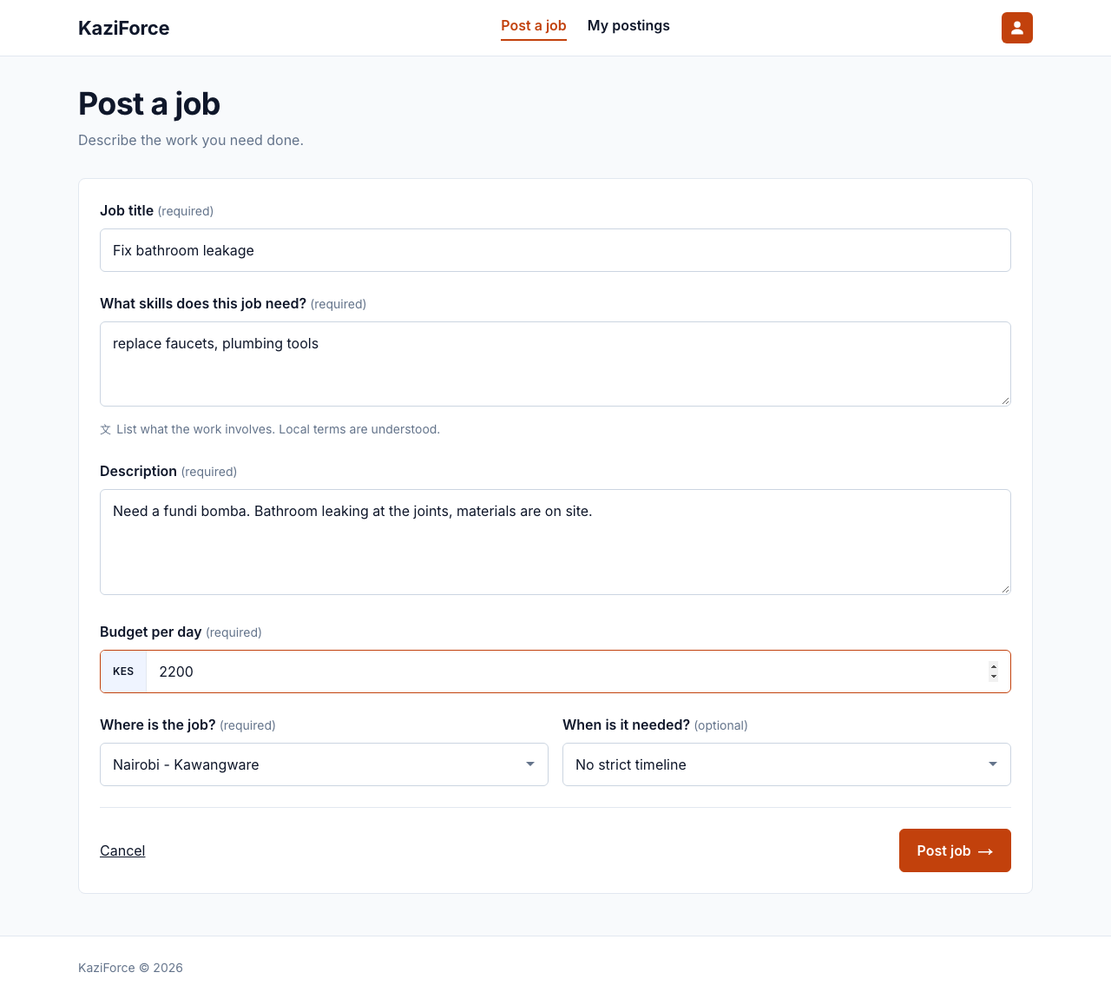
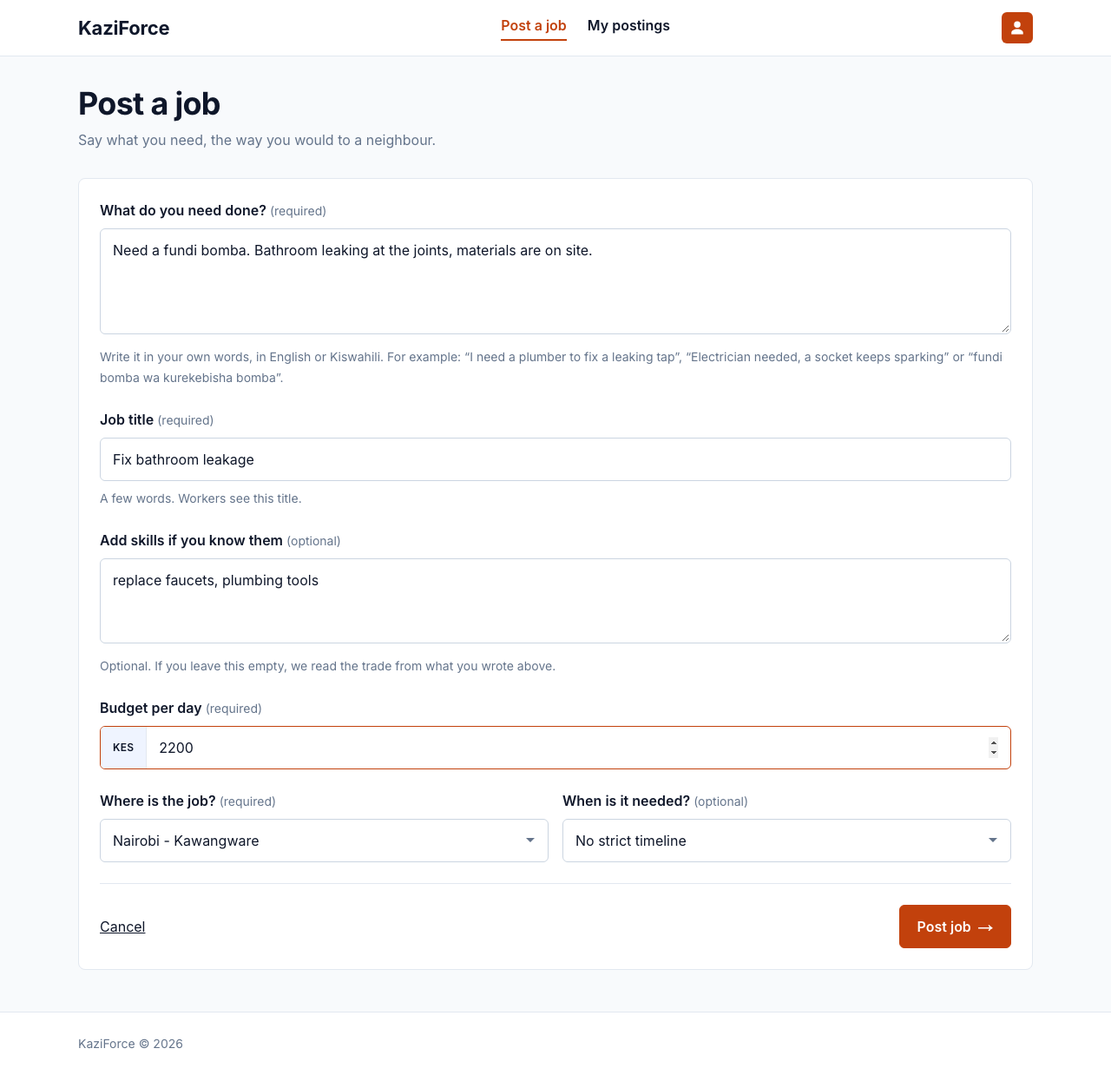
docs: amended requirements, limitations 41 to 43, usability finding U-7, test-record rows U-7, M-2 and M-3
FR-02, FR-14, FR-15, FR-16, DR-02, DR-07 and NFR-06 reworded to the short versions, with
their code and test references kept. FR-02 and DR-02: skills and availability are optional
for postings made through the web interface. limitations: a posting with no skills is scored
without a skill criterion (measured), skills in a client's own words match only identical
text, and semantic scores can shift by about 1e-7 when the pool changes. Evidence screens
refreshed for the landing page and the client post and result screens.

diff --git a/docs/traceability.md b/docs/traceability.md
@@ -12,11 +12,11 @@ Paths are relative to the repository root. Python test counts are from the run
 recorded in `docs/test-results.xml`: **520 tests, all passing** (2026-11-12, commit
 `3dd58f0`, **with a database available**, so the 123 database-backed tests ran). Without a
 database, as in CI, the same suite gives 397 passed and 123 skipped. The interface adds
-**151 component tests** (vitest, all passing, 2026-11-12, after the usability fixes in `4e9f635`). The end-to-end suite defines
-**30 tests per engine** (Chromium and WebKit), one of which is the NFR-01 browser timing. Its last
+**161 component tests** (vitest, all passing, 2026-11-12, after the usability fixes in `4e9f635`). The end-to-end suite defines
+**33 tests per engine** (Chromium and WebKit), one of which is the NFR-01 browser timing. Its last
 recorded run (`docs/evidence/e2e_browsers.txt`, 2026-11-12, commit `b44c924`, an isolated scratch stack)
 **passed all 48** (24 per engine, 0 failed, 0 flaky); the run before it (2026-10-29) predates the landing page and
-the contact feature, when the suite held 10 per engine. Tests added since (to 30 per engine, counted in the run of 2026-11-13: 14 core-workflow, 9 landing, 5 worker-contact, 1 timing, 1 screenshots) passed in both engines, 60 of 60, on an isolated stack; that run is not in the transcript above, which is the 48 of `b44c924`. The earlier counts of 24 and 26 per engine do not reconcile with this count by file, and 30 is the one to cite. System tests T-01 to T-08 are in
+the contact feature, when the suite held 10 per engine. Tests added since (to 33 per engine, counted in the run of 2026-11-15: 17 core-workflow, 9 landing, 5 worker-contact, 1 timing, 1 screenshots) passed in both engines, 66 of 66, on an isolated stack; that run is not in the transcript above, which is the 48 of `b44c924`. The earlier counts of 24 and 26 per engine do not reconcile with this count by file, and 33 is the one to cite. System tests T-01 to T-08 are in
 `docs/test-record.md`.
 
 ## Functional requirements
@@ -24,7 +24,7 @@ the contact feature, when the suite held 10 per engine. Tests added since (to 30
 | ID | Requirement | Status | Implemented in | Tests | Evidence |
 |---|---|---|---|---|---|
 | FR-01 | A worker submits a profile through the web interface: skills, biography, location, availability, rate expectation, **and views and edits it afterwards** *(amended; drafted 2026-11-12 for Chapter 4)* | **Done** | `apps/web/app/worker/profile/page.tsx` (all five fields; a worker with a profile reads it and chooses *Edit profile*); `POST /workers`, `GET /workers/me` and **`PUT /workers/me`** in `apps/api/.../app.py: parse_worker`, `service.py: create_worker`, `update_worker`, `data/store.py: save_worker`, `update_worker`. An edit replaces the profile and keeps its `worker_id`, so the next request for matches uses the edited profile | `tests/test_api.py` validation set, `tests/test_api_db.py: test_a_stored_worker_can_then_be_recommended_for`, `tests/test_api_accounts.py: test_a_worker_edits_their_profile_in_place`, `test_an_edit_clears_a_field_the_body_leaves_empty`, `test_editing_a_profile_that_does_not_exist_is_a_404`, `apps/web/__tests__/WorkerProfilePage.test.tsx`, `apps/web/e2e/core-workflow.spec.ts` | `docs/evidence/screens/*/03-create_worker_profile_view.png`; commits `2e6f113` (API), `8ea27b9` (view and edit screen) |
-| FR-02 | A client submits a job posting through the web interface: required skills, ~~category~~, budget, location | **Done (requirement amended)** | `apps/web/app/client/post/page.tsx` and `POST /jobs` implement required skills, budget, location (and a description, per DR-02). `category` is deliberately absent: matching never reads it | `tests/test_api.py: test_category_is_rejected_because_matching_never_uses_it`, `tests/test_api_db.py`, e2e | `docs/evidence/screens/*/07-job_posting_creation.png`, `08-job_posted_confirmation.png`, `09-client_postings_list.png`. **Decided 2026-10-29: the requirement is amended in Chapter 4 to drop `category`.** Matching never reads it, and in the evaluation data the category *is* the occupational area, so collecting it would put the relevance label into the profile data. The API rejects `category` with a 400 so the decision cannot be undone by accident |
+| FR-02 | The system shall allow a client to submit a job posting with a title, a description of the work, a budget and a location, and optionally the availability and required skills. | **Done (requirement amended)** | `apps/web/app/client/post/page.tsx` and `POST /jobs` implement a title, a description (asked first, as "What do you need done?"), a budget, a location, and an optional availability and optional skills (`parse_job` has always accepted a posting with none; the form no longer demands them). `category` is deliberately absent: matching never reads it | `tests/test_api.py: test_category_is_rejected_because_matching_never_uses_it`, `test_a_job_may_be_posted_with_no_skills`, `tests/test_api_db.py: test_a_posting_with_no_skills_is_stored_and_its_trade_is_read_from_the_description`, `test_a_posting_with_no_skills_can_be_ranked_without_error_and_has_no_skill_criterion`, `__tests__/PostJobPage.test.tsx`, e2e (`a client who lists no skills posts a job and is told how it was read`) | `docs/evidence/screens/*/07-job_posting_creation.png`, `08-job_posted_confirmation.png`, `09-client_postings_list.png`. **Decided 2026-10-29: the requirement is amended in Chapter 4 to drop `category`.** Matching never reads it, and in the evaluation data the category *is* the occupational area, so collecting it would put the relevance label into the profile data. The API rejects `category` with a 400 so the decision cannot be undone by accident. **Amended again 2026-11-15 (usability finding U-7):** skills became optional, because clients mostly know only that they need a plumber or an electrician; the title stays required. A posting with no skills is scored without a skill criterion (`docs/limitations.md`, items 41 and 42) |
 | FR-03 | Map informal trade terms in a worker or job profile to their formal ESCO occupation or skill, using the Kenya vocabulary extension | **Done** | `packages/knowledge-graph/src/kaziforce_kg/enrichment.py: ProfileEnricher.enrich`, over `graph.py: KnowledgeGraph.find_terms` → `occupation_of`. Applied to both sides: jobs are enriched in `pipeline.py: Recommender.__init__`, workers in `Recommender.enrich` | `tests/test_enrichment.py` (12), `tests/test_kg_withheld.py` (14) | `docs/evidence/enrichment_example.md`: 64/64 development known-alias profiles reach their true ESCO occupation, 0 wrong |
 | FR-04 | Enrich a profile by linking it to related entities in the knowledge graph: skills, occupations, vocabulary mappings | **Done** | `enrichment.py: ProfileEnricher._infer` adds the occupation's essential skills, each with the graph path that produced it (`SkillEvidence.graph_path`) | `tests/test_enrichment.py: test_every_inferred_skill_carries_its_full_graph_path`, `test_formal_profile_keeps_listed_skills_and_infers_the_rest` | `docs/evidence/enrichment_example.md`: *fundi wa umeme* → electrician → 21 essential skills |
 | FR-05 | Rule-based score on skill overlap, location, budget and availability, evaluating only criteria for which both sides supply the information | **Done** | `apps/api/.../matching/rule_based.py: RuleBasedScorer`; absent criteria are dropped and the remaining weights renormalised | `tests/test_rule_scorer.py` (32), including `test_renormalisation_drops_absent_criteria` | `docs/scoring-policy.md` §1, fixed before any score existed; `results/dev/20261017-132422_6698b8a/metrics.md` |
@@ -36,9 +36,9 @@ the contact feature, when the suite held 10 per engine. Tests added since (to 30
 | FR-11 | Persist submitted worker profiles, job postings, and **computed match scores** in the application database | **Done** | Profiles and postings: `data/store.py: PostgresProfileStore.save_worker`, `save_job`, through migrations `0001`–`0003`. Match scores: `service.py: RecommendationService._persist` calls `save_match_scores(..., replace=True)` after every `POST /recommend` for a stored worker. Replacing rather than appending keeps one current ranking per (worker, configuration), so the table records what the engine decided and not how often the screen was refreshed | `tests/test_store.py` (7), `tests/test_api_db.py: test_a_ranking_is_recorded_and_replaced_rather_than_accumulated`, `test_a_typed_in_profile_records_nothing` | `docs/demo.md`: ten `match_score` rows per worker after opening the matches screen. The write happens after the query timer stops and a failure is logged, not surfaced: the ranking is already computed and the worker should still get it |
 | FR-12 | A worker or a client creates an account identified by a phone number and a four-digit PIN, signs in, **and signs out; a worker creating an account also gives a first and last name and agrees to be shown to clients in their trade** *(amended; drafted 2026-11-12 for Chapter 4)* | **Done** | `auth.py` (`normalise_phone`, `PIN_LENGTH = 4`, `hash_pin`: PBKDF2-HMAC-SHA256, 600,000 iterations, per-account salt; lockout after 5 wrong PINs for 15 minutes; session tokens stored as a SHA-256 hash, 7-day expiry); `data/accounts.py: AccountStore.create`, `authenticate`, `start_session`, `session_account`, `end_session`; `app.py`: `POST /auth/accounts` (`parse_credentials`, `parse_signup_contact`: a worker must give both names and `contact_consent: true`; a client gives neither), `POST` and `DELETE /auth/sessions`, `GET /auth/session`; screens `app/create-account/page.tsx`, `app/sign-in/page.tsx`, sign-out in `components/AppShell.tsx` and `SessionProvider.tsx`; migrations `0003`–`0005` | `tests/test_auth.py` (10); `tests/test_api_accounts.py: test_creating_an_account_signs_you_in_and_says_what_you_own`, `test_one_number_written_three_ways_is_one_account`, `test_signing_in_needs_the_right_pin`, `test_an_unknown_number_and_a_wrong_pin_look_the_same`, `test_repeated_wrong_pins_lock_the_account`, `test_signing_out_ends_the_session`, `test_the_pin_never_comes_back_in_any_response`; `tests/test_api_contact.py: test_a_worker_signs_up_with_a_name_and_agreement`, `test_a_worker_must_agree_to_be_shown`, `test_a_client_gives_no_name_and_no_consent`; `tests/test_crypto.py`, `tests/test_contact_migration.py`; `apps/web/__tests__/CreateAccountPage.test.tsx`; e2e "signing in returns a worker to their matches", "the wrong PIN is refused, and the form says so", "no PIN is left behind in the page after signing up", "a signed-out visitor is sent to sign in" | `docs/evidence/screens/*/01-sign_in.png`, `02-create_account.png`; `docs/limitations.md` items 26 (what a four-digit PIN does not protect against), 28 and 38; `docs/privacy-and-keys.md`; see also NFR-06. Consent is a condition of creating a worker account, and is withdrawable (FR-16) |
 | FR-13 | A worker profile and any job postings are associated with the account that created them, so a client sees only their own postings, **and the client is given a list of the postings they have submitted** *(amended; drafted 2026-11-12 for Chapter 4)* | **Done** | `fk_account_id` on `worker_profile` (unique, so one profile per worker account) and on `job_posting` (migration `0003`); `data/accounts.py: claim_worker_profile`, `claim_job_posting`, `posting_ids`, `owns_posting`, `worker_profile_id`; `app.py`: `POST /workers` and `POST /jobs` claim for the signed-in account, `GET /jobs` lists the signed-in client's postings, `GET /jobs/<id>` answers 404 for another client's posting; screen `apps/web/app/client/postings/page.tsx` | `tests/test_api_accounts.py: test_a_client_posts_jobs_and_sees_only_their_own`, `test_a_second_profile_is_refused`, `test_a_client_cannot_use_worker_endpoints`, `test_a_worker_cannot_post_or_list_jobs`, `test_signed_out_visitors_are_asked_to_sign_in`; e2e "a client's postings are listed, and only their own" | `docs/evidence/screens/*/09-client_postings_list.png`; `docs/limitations.md` item 27 (a client has an account, not a profile) |
-| FR-14 | After a job posting is submitted, the client is shown the occupation the posting was mapped to and the skills it was understood to require | **Done** | `service.py: job_interpretation` (`occupations`, `stated_skills` each `listed` or `text`, `terms`, `unmapped`; the posting's stated requirements only, `docs/scoring-policy.md` §1), returned by `POST /jobs` and `GET /jobs/<id>`; `posting_summary` for the postings list; screen `apps/web/app/client/postings/[postingId]/page.tsx` ("We matched this to the trade", the skill chips, a plain sentence on how the posting was read, and any term it did not recognise kept as written) | `tests/test_api.py: test_job_interpretation_shows_stated_skills_only`, `test_unknown_or_malformed_posting_is_404`; `tests/test_api_accounts.py: test_a_client_posts_jobs_and_sees_only_their_own`; e2e "a client signs up, posts a job, and sees how it was understood" | `docs/evidence/screens/*/07-job_posting_creation.png`, `08-job_posted_confirmation.png`. FR-14 asks for the occupation and the skills only; the trade list on the same screen is FR-15 |
-| FR-15 | A client may view the workers in a posting's trade, as an unranked sample with no match score and no explanation, and the name, trade, skills, biography, location, availability, rate and phone number of a worker who has given a name and consented to be shown *(drafted 2026-11-12 for Chapter 4)* | **Done** | `service.py: _worker_pool`, `_worker_sample` (`TRADE_SAMPLE_SIZE = 5`); `GET /jobs/<id>` (`worker_pool`); `GET /workers/<public_id>` (clients only, `require("client")`) → `client_view_of_worker`; `data/accounts.py: consented_cards`, `consented_contact`; screens `client/postings/[postingId]`, `client/workers/[workerId]` | `tests/test_api_contact.py`; `tests/test_api_db.py`; e2e `worker-contact.spec.ts` | `docs/privacy-and-keys.md`; `docs/limitations.md` item 36; commits `29e1194`, `9d9565e`, `2f3dd75` |
-| FR-16 | A worker may withdraw, and later restore, their agreement to be shown to clients; a worker who has withdrawn is not shown by name and their contact details are not released *(drafted 2026-11-12 for Chapter 4; optional, may be folded into FR-12)* | **Done** | `account.contact_consent`, `consent_changed_at` (migration 0004); `PUT /workers/me` with `contact_consent`; `consented_contact` returns nothing without consent | `tests/test_api_contact.py`; e2e `worker-contact.spec.ts` (withdrawal) | Commit `9b457da`; `docs/limitations.md` (consent, withdrawal; a number already seen cannot be recalled). Consent is required to create a worker account (`app.py`), recorded as a limitation |
+| FR-14 | The system shall show a client, after a posting is submitted, the occupation it was mapped to (if found) and any skills the client listed. | **Done** | `service.py: job_interpretation` (`occupations`, `stated_skills` each `listed` or `text`, `terms`, `unmapped`; the posting's stated requirements only, `docs/scoring-policy.md` §1), returned by `POST /jobs` and `GET /jobs/<id>`; `posting_summary` for the postings list; screen `apps/web/app/client/postings/[postingId]/page.tsx` ("We matched this to the trade", the skill chips, a plain sentence on how the posting was read, and any term it did not recognise kept as written; with no skills listed, a sentence saying the trade was read from the description and skills could not be compared) | `__tests__/PostingResultPage.test.tsx` (the wording with and without skills), `tests/test_api.py: test_job_interpretation_shows_stated_skills_only`, `test_unknown_or_malformed_posting_is_404`; `tests/test_api_accounts.py: test_a_client_posts_jobs_and_sees_only_their_own`; e2e "a client signs up, posts a job, and sees how it was understood" | `docs/evidence/screens/*/07-job_posting_creation.png`, `08-job_posted_confirmation.png`. FR-14 asks for the occupation and the skills only; the trade list on the same screen is FR-15 |
+| FR-15 | After posting a job, a client can view the workers in the posting's trade, as an unranked sample with no score or explanation. For workers who have consented, the client can also view their name, phone number and profile. | **Done** | `service.py: _worker_pool`, `_worker_sample` (`TRADE_SAMPLE_SIZE = 5`); `GET /jobs/<id>` (`worker_pool`); `GET /workers/<public_id>` (clients only, `require("client")`) → `client_view_of_worker`; `data/accounts.py: consented_cards`, `consented_contact`; screens `client/postings/[postingId]`, `client/workers/[workerId]` | `tests/test_api_contact.py`; `tests/test_api_db.py`; e2e `worker-contact.spec.ts` | `docs/privacy-and-keys.md`; `docs/limitations.md` item 36; commits `29e1194`, `9d9565e`, `2f3dd75` |
+| FR-16 | The system shall allow a worker to withdraw or restore their agreement to be shown to clients. While it is withdrawn, the worker's name and contact details are not shown. | **Done** | `account.contact_consent`, `consent_changed_at` (migration 0004); `PUT /workers/me` with `contact_consent`; `consented_contact` returns nothing without consent | `tests/test_api_contact.py`; e2e `worker-contact.spec.ts` (withdrawal) | Commit `9b457da`; `docs/limitations.md` (consent, withdrawal; a number already seen cannot be recalled). Consent is required to create a worker account (`app.py`), recorded as a limitation |
 
 ## Non-functional requirements
 
@@ -47,21 +47,21 @@ the contact feature, when the suite held 10 per engine. Tests added since (to 30
 | NFR-01 | Under a single-query workload, return top-K matches to the frontend within 5 seconds, measured end to end from request submission to result display | **Done** | `pipeline.py`; job embeddings are computed once at startup (`service.py`), so a query is one short encoding plus the ranking | Engine time per query by `evaluation/evaluator.py`; **end-to-end time in a real browser** by `apps/web/e2e/performance.spec.ts`, 10 samples per engine after 3 discarded warm-ups, asserting the slowest single sample is inside the budget | **`docs/evidence/nfr01_browser_timing.md`**: end-to-end median 471 ms (Chromium) and 598 ms (WebKit), slowest single sample 697 ms, against a 5,000 ms budget. Engine time on the same requests: median 14.8 ms and 14.1 ms, so the browser path is roughly thirty times the engine figure — which is why both are reported. Engine time across the evaluation: `results/dev/.../metrics.md`, median 3–35 ms, p95 ≤ 51 ms. Startup (about 35 s, once per process) is excluded and reported separately |
 | NFR-02 | An interpretable explanation for at least 85% of the top-K recommendations across the evaluation dataset | **Not met (development split; test-split figure pending)** | `evaluation/evaluator.py` counts coverage over each query's top-10, to the strict rule fixed in `docs/scoring-policy.md` §7 **before** the generator was written | `tests/test_evaluation.py: test_computing_coverage_changes_no_ranking_metric`, `test_coverage_is_counted_over_the_whole_top_k_not_only_what_would_be_displayed`, `tests/test_explanation.py` | `results/dev/20261026-232037_46116e0/metrics.md`: `full` reaches **79.2%** against a target of 85%. The shortfall is **not** spread evenly. Of the 2,160 top-10 results, 449 are uncovered: **240 are the held-out-alias variant**, all 24 of its queries at 0.0%. The other 209 are spread over formal (89.2%), known_alias (90.3%) and minimal (87.8%). Excluding the held-out queries, coverage would be 1 − 209/1,920 = **89.1%**, above the target. So the held-out variant is what takes the figure below 85%, but it is not the whole shortfall. A worker using a withheld alias reaches no occupation, so no skill is inferred and none is shared, so there is nothing checkable to say. The knowledge graph's contribution: 12.5% → 78.2% (rule), 15.9% → 79.2% (hybrid) |
 | NFR-03 | Separable components for knowledge graph enrichment, rule-based scoring, semantic similarity **and explanation generation**, with clear interfaces | **Done** | All four are separable behind abstract interfaces: `kaziforce_kg/enrichment.py: Enricher`, `matching/base.py: Scorer` (rule, semantic and hybrid all realise it), `explainability/base.py: Explainer`, `data/store.py: ProfileStore`. A configuration is an (enricher, scorer) pair in `pipeline.py: CONFIGURATIONS`, with no conditional logic in the scorers; the explainer is passed to the evaluator separately and is optional | `tests/test_enrichment.py: test_both_enrichers_realise_the_same_interface`, `tests/test_pipeline.py: test_every_configuration_is_an_enricher_scorer_pair`, `test_kg_ablation_pairs_differ_only_in_the_enricher`, `tests/test_explanation.py: test_the_generator_works_without_a_graph`, `tests/test_evaluation.py: test_computing_coverage_changes_no_ranking_metric` | The knowledge-graph ablation is only possible because the parts are swappable; the evaluator runs identically with and without an explainer |
-| NFR-04 | The web interface provides clear input and output flows, usable without technical knowledge | **Done (by design; not fully user-tested)** | `apps/web`: plain-language labels and hints, worked examples in Kiswahili, errors shown against the field they concern, absent values written as "Not assessed" rather than 0, and skill provenance in words ("listed by you", "inferred via *fundi wa umeme*"). No identifier, URI or score internals are shown. Four findings from the sessions are fixed: in `4e9f635`, no way back from sign-in and create-account to the landing page, and a button stuck on "Signing in…" / "Saving…" with nothing submitted; in `660a184`, a developer-worded message with no recovery when the connection drops (now plain wording and a "Try again" button; the cause was the tunnel dropping, outside the app), and a "+N more" on a match card that looked tappable (now a link to the explanation) | 151 component tests (13 files, 2026-11-13), 16 of them added with the four fixes; 14 end-to-end tests of the two journeys in each of two engines, 5 of them for the four fixes | **First usability sessions, `docs/usability-record.md`:** 3 participant sessions (P1 and P3 workers, P2 a client; laptop, Safari and Dia) and 1 check by the author, which is not a participant session. **6 findings; 4 fixed (U-1 to U-4); 2 open (U-5, U-6)**, both deliberately not changed: a score that does not follow pay (scoring) and a trade the vocabulary lacks (enrichment). To "was there anything you didn't understand?", P1 and P2 answered "No"; P3's answer was about the scoring. **The sessions were unmoderated** (participants worked alone and screen-recorded themselves), and no step times or hesitations have yet been taken from the recordings, so **no timing or task-completion claim is made**. Three sessions are a first look, not a usability study. `docs/evidence/screens/` |
+| NFR-04 | The web interface provides clear input and output flows, usable without technical knowledge | **Done (by design; not fully user-tested)** | `apps/web`: plain-language labels and hints, worked examples in Kiswahili, errors shown against the field they concern, absent values written as "Not assessed" rather than 0, and skill provenance in words ("listed by you", "inferred via *fundi wa umeme*"). No identifier, URI or score internals are shown. Four findings from the sessions are fixed: in `4e9f635`, no way back from sign-in and create-account to the landing page, and a button stuck on "Signing in…" / "Saving…" with nothing submitted; in `660a184`, a developer-worded message with no recovery when the connection drops (now plain wording and a "Try again" button; the cause was the tunnel dropping, outside the app), and a "+N more" on a match card that looked tappable (now a link to the explanation) | 161 component tests (14 files, 2026-11-15), 26 of them added with the five fixes; 17 end-to-end tests of the journeys in each of two engines, 8 of them for the fixes | **First usability sessions, `docs/usability-record.md`:** 3 participant sessions (P1 and P3 workers, P2 a client; laptop, Safari and Dia) and 1 check by the author, which is not a participant session. **7 findings; 4 fixed (U-1 to U-4); 1 fixed and pending retest (U-7, `b313756`: skills are optional); 2 open (U-5, U-6)**, the open two deliberately not changed: a score that does not follow pay (scoring) and a trade the vocabulary lacks (enrichment). To "was there anything you didn't understand?", P1 and P2 answered "No"; P3's answer was about the scoring. **The sessions were unmoderated** (participants worked alone and screen-recorded themselves), and no step times or hesitations have yet been taken from the recordings, so **no timing or task-completion claim is made**. Three sessions are a first look, not a usability study. `docs/evidence/screens/` |
 | NFR-05 | Renders correctly on current versions of at least two major browsers (Safari and Google Chrome) | **Done** | `apps/web` | `apps/web/e2e/core-workflow.spec.ts`, run in Chromium and WebKit (`playwright.config.ts`) | `docs/evidence/e2e_browsers.txt`: 9 tests pass in each of the two engines, 18 in total, 2026-10-25; `docs/evidence/screens/{chromium,webkit}/` |
-| NFR-06 | Account and contact data protected: (a) phone numbers and worker names encrypted at rest under keys held outside the database and repository, the app refusing to start outside development without them; (b) contact details released only with current consent; (c) a client limited to 30 worker-profile views per 60 s; (d) an account locked for 15 minutes after 5 failed sign-ins; (e) sessions expire after 7 days *(drafted 2026-11-12 for Chapter 4)* | **Done, with limitations** | (a) `crypto.py` (`FieldCipher` AES-256-GCM, `FieldCrypto` HMAC-SHA256 lookup), migrations 0004–0005; (b) `accounts.consented_contact`; (c) `app.py` `CONTACT_VIEWS_PER_WINDOW, CONTACT_WINDOW_SECONDS = 30, 60`, `ratelimit.SlidingWindowLimiter` (429 + `Retry-After`); (d) `auth.py` `MAX_FAILED_ATTEMPTS = 5`, `LOCKOUT = 15 min` (423); (e) `auth.py` `SESSION_LIFETIME = 7 days`, HttpOnly SameSite=Lax cookie | `tests/test_crypto.py`; `tests/test_auth.py`; `tests/test_api_accounts.py`; `tests/test_api_contact.py` (incl. `test_nothing_personal_reaches_the_logs`); `tests/test_contact_migration.py` | `docs/privacy-and-keys.md`. Limitations: keys do not rotate (`docs/limitations.md` item 34), no TLS to the database or disk encryption on the development machine (item 35), four-digit PIN without a pepper (item 37), phone numbers not verified (item 38) |
+| NFR-06 | The system shall protect account and contact data: (a) phone numbers and names are encrypted at rest, with keys held outside the database and the repository; (b) a worker's contact details are released only with current consent; (c) a client may view at most 30 worker profiles per minute; (d) an account is locked for 15 minutes after 5 failed sign-ins; (e) PINs and session tokens are stored only as hashes, and a session expires after 7 days. | **Done, with limitations** | (a) `crypto.py` (`FieldCipher` AES-256-GCM, `FieldCrypto` HMAC-SHA256 lookup), migrations 0004–0005; (b) `accounts.consented_contact`; (c) `app.py` `CONTACT_VIEWS_PER_WINDOW, CONTACT_WINDOW_SECONDS = 30, 60`, `ratelimit.SlidingWindowLimiter` (429 + `Retry-After`); (d) `auth.py` `MAX_FAILED_ATTEMPTS = 5`, `LOCKOUT = 15 min` (423); (e) `auth.py` `SESSION_LIFETIME = 7 days`, HttpOnly SameSite=Lax cookie | `tests/test_crypto.py`; `tests/test_auth.py`; `tests/test_api_accounts.py`; `tests/test_api_contact.py` (incl. `test_nothing_personal_reaches_the_logs`); `tests/test_contact_migration.py` | `docs/privacy-and-keys.md`. Limitations: keys do not rotate (`docs/limitations.md` item 34), no TLS to the database or disk encryption on the development machine (item 35), four-digit PIN without a pepper (item 37), phone numbers not verified (item 38) |
 
 ## Data requirements
 
 | ID | Requirement | Status | Implemented in | Tests | Evidence |
 |---|---|---|---|---|---|
 | DR-01 | Worker profile data includes skills, biography, location, availability and rate expectation, from programmatically generated synthetic profiles | **Done** | `data/synthetic.py: make_base_workers`, `make_variants`; `data/models.py: WorkerProfile` carries exactly these fields | `tests/test_synthetic_dataset.py` (12), `tests/test_data_loader.py` (8) | `data/raw/synthetic/workers.csv` (528 rows), `manifest.json` |
-| DR-02 | Job posting data includes required skills, ~~category~~, budget, location and free-text description; synthetic postings plus Job Skill Set postings as unrelated candidates | **Done (requirement amended)** | `data/synthetic.py: make_jobs` and `make_distractors` produce 80 synthetic postings and 200 Job Skill Set postings in one pool. `category` is deliberately absent from `jobs.csv`, because the category is the occupational area and would carry the evaluation label into the profile data | `tests/test_synthetic_dataset.py: test_profile_files_have_no_label_or_occupation_columns`, `test_every_worker_has_relevant_jobs_and_distractors_never_relevant` | `data/raw/synthetic/jobs.csv` (280 rows), `README.md` "Job category" note. **Same amendment as FR-02**: the column exists in the schema and is never populated, and omitting it is what keeps the evaluation label out of the profile data |
+| DR-02 | Evaluation postings shall include a title, description, required skills, budget, location and availability. Postings submitted through the web interface may omit the required skills and the availability. | **Done (requirement amended)** | `data/synthetic.py: make_jobs` and `make_distractors` produce 80 synthetic postings and 200 Job Skill Set postings in one pool. `category` is deliberately absent from `jobs.csv`, because the category is the occupational area and would carry the evaluation label into the profile data | `tests/test_synthetic_dataset.py: test_profile_files_have_no_label_or_occupation_columns`, `test_every_worker_has_relevant_jobs_and_distractors_never_relevant` | `data/raw/synthetic/jobs.csv` (280 rows), `README.md` "Job category" note. **Same amendment as FR-02**: the column exists in the schema and is never populated, and omitting it is what keeps the evaluation label out of the profile data. **Postings submitted through the web interface may omit the required skills and the availability** (usability finding U-7); the evaluation's postings always carry them, so the evaluation is unaffected |
 | DR-03 | The knowledge graph stores the ESCO backbone and the Kenya vocabulary extension, each mapping recorded with the dictionary evidence and review decision supporting it | **Done** | Backbone: `data/kg/` → `kaziforce_kg/builder.py: KnowledgeGraphBuilder`. Extension: `data/vocabulary/aliases.csv`, where every row carries `dictionary_check`, `dictionary_source`, `entry_url`, `gloss_note`, `sense_ok`, `validated_by` and `decision_date`, plus `dictionary_evidence.csv` (252 rows) and the decision files | `tests/test_kg_graph.py` (16), `tests/test_vocabulary.py` (33) including the evidence-field integrity checks, `tests/test_kg_inputs.py` (7) | `docs/evidence/kg_stats.md`: 544 nodes, 901 edges; `docs/vocabulary-report.md` |
 | DR-04 | Missing or incomplete fields are handled without discarding the record; a criterion is evaluated only where both records supply the field, and the remaining criteria weighted accordingly | **Done** | `matching/rule_based.py: combine_present` renormalises over the criteria present; records are never discarded | `tests/test_rule_scorer.py: test_renormalisation_drops_absent_criteria`, `test_distractor_is_scored_on_skills_alone`, `test_minimal_worker_is_scored_on_skills_and_location` | `docs/scoring-policy.md` §1; the interface shows "Not assessed" in muted italics, never 0 (`apps/web/__tests__/Explanation.test.tsx`) |
 | DR-05 | Synthetic profiles generated from predefined occupational specifications grounded in ESCO and the Kenya terminology | **Done** | `data/synthetic.py` (generator v2, seed 42): skills drawn from each occupation's ESCO essential and optional pools, informal variants from the frozen vocabulary | `tests/test_synthetic.py` (8), `tests/test_synthetic_dataset.py` (12) | `data/raw/synthetic/manifest.json` records the seed, parameters, counts and input checksums; `difficulty_report.md` |
 | DR-06 | Retain the evaluation dataset, the computed match scores, and the code version, dataset checksums and random seed for each evaluation run | **Done** | `evaluation/report.py: write_run` writes `metrics.csv`, `per_query.csv` and `run.json` (commit, dirty flag, dataset and knowledge-graph checksums, scoring-policy checksum, model revision, weights, seed, package versions, machine). `scripts/evaluate.py` refuses to run on an uncommitted tree | `tests/test_evaluation.py` (6), `tests/test_metrics.py` (13) | `results/dev/20261017-132422_6698b8a/` |
-| DR-07 | No personally identifiable information collected or stored; synthetic profiles contain no real personal identifiers | **Done, with one caveat** | `data/synthetic.py` generates no identifiers (DR-07 noted in its docstring); `app.py: parse_worker` accepts no name or contact field; `clean_profile_text` strips emails, URLs and phone numbers from the third-party corpus | `tests/test_loaders.py` (18), `tests/test_synthetic_dataset.py: test_distractors_are_cleaned_and_contain_no_contact_details`, `tests/test_vocabulary.py: test_usage_evidence_has_only_the_agreed_fields_and_no_contact_details`; e2e asserts the form has no name field | `data/raw/synthetic/README.md`; `docs/evidence/screens/*/03-create_worker_profile_view.png`. **Caveat:** the *account* is personal data: a real phone number and, for a worker, a first and last name. They are encrypted at the application level (AES-256-GCM; the number is found by a keyed hash), kept on the account and never on the profile or in the matching data, and shown to a client only for a worker who has agreed and not withdrawn. `docs/limitations.md` items 28, 32 and 33–40; `docs/privacy-and-keys.md` |
+| DR-07 | The system shall collect only a phone number from every account holder and a first and last name from workers. These shall be stored encrypted, released to a client only with the worker's consent, and kept out of matching, evaluation data and logs. Evaluation data shall contain no real personal identifiers. | **Done, with one caveat** | `data/synthetic.py` generates no identifiers (DR-07 noted in its docstring); `app.py: parse_worker` accepts no name or contact field; `clean_profile_text` strips emails, URLs and phone numbers from the third-party corpus | `tests/test_loaders.py` (18), `tests/test_synthetic_dataset.py: test_distractors_are_cleaned_and_contain_no_contact_details`, `tests/test_vocabulary.py: test_usage_evidence_has_only_the_agreed_fields_and_no_contact_details`; e2e asserts the form has no name field | `data/raw/synthetic/README.md`; `docs/evidence/screens/*/03-create_worker_profile_view.png`. **Caveat:** the *account* is personal data: a real phone number and, for a worker, a first and last name. They are encrypted at the application level (AES-256-GCM; the number is found by a keyed hash), kept on the account and never on the profile or in the matching data, and shown to a client only for a worker who has agreed and not withdrawn. `docs/limitations.md` items 28, 32 and 33–40; `docs/privacy-and-keys.md` |
 
 ## Interface requirements
 

diff --git a/docs/test-record.md b/docs/test-record.md
@@ -173,6 +173,9 @@ Screenshots: `T-08-error.png`, `T-08a-2-profile-filled.png`, `T-08a-3-matches.pn
 | U-2 | Reproduced on an isolated stack in Chromium and WebKit (a script kept outside the repository): create an account, sign out, follow "New here?"; create a profile and return to it, then Edit; sign in by the form, then sign out | A submit button says "Continue" / "Create account" / "Save changes", enabled, when nothing has been submitted | **"Creating your account…" (disabled)**, **"Saving…" (disabled)** and **"Signing in…" (disabled)**, in both engines, with the fields disabled. Cause: the success path of `submit` in `sign-in/page.tsx`, `create-account/page.tsx` and `worker/profile/page.tsx` calls `setBusy(true)` and never clears it (`setBusy(false)` is only in the error path) and then navigates away. Next keeps the route mounted, hidden, so the flag survives and the page returns busy. | **Fixed in `4e9f635`:** `useIdleWhenHidden` clears it when the page is left. **Retest:** the same walk, both engines: all buttons ready. Three component tests that **fail without the fix** (the hook disabled) and pass with it; end-to-end in both engines (`no button says Signing in…, Creating your account… or Saving… when nothing was submitted`). Full run on an isolated stack: ruff, tsc and eslint clean; 142 component tests; end-to-end 52 passed (26 per engine, in two passes: the second pass added the three demo workers the isolated database lacked). |
 | U-3 | The connection is dropped for one request (Playwright aborts the first `POST /auth/sessions`, then `POST /jobs`) in Chromium and WebKit, with the code as it was | A message a participant can read, and a way to recover | "Cannot reach the API at /api. Is it running?", nothing to press; the form had to be filled and sent again by hand. **The original cause was the tunnel dropping** (`tunnel.log`: `no recent network activity`, reconnects at 20:54, 21:10–21:11, 22:52–22:53 EAT; see `handoff/23`), which is **outside the app**; the change is to the wording and the recovery, not to the cause | **Changed in `660a184`:** "We couldn't reach the service. Check your connection and try again."; sign-in, create account, profile and post job show a **Try again** button that sends the same details once. **A POST is not retried automatically** (a lost reply would come back as a duplicate-phone 409; stated in `lib/api.ts`); the 503 "engine not ready" retry is unchanged; the developer detail stays on `ApiError.detail`/`cause` and in the console. **Retest:** component tests on all four forms, and in `api.test.ts` that a POST is sent once; end-to-end in both engines for sign-in and post job, each of which **fails without the change** (6 of 6 failed with the source stashed) and passes with it. |
 | U-4 | Matches screen, a card with more than three matched skills, in Chromium and WebKit at desktop width and 375 px (`handoff/23`, B3) | "+N more" does something, as it looks as if it should | A plain `<span>`: nothing happened on tap or click, in all four configurations | **Changed in `660a184`:** "+N more" is a link to that match's "Why this job?" page (the same address as the button), reachable by keyboard, with the page's focus outline, and 44 px high without changing the card's height. The skills the card shows and the explanation screen are unchanged. **Retest:** component tests (the link, its address, the unchanged skills); end-to-end in both engines (height of at least 44 px, focus, click opens the explanation), which **fails without the change** and passes with it. |
+| U-7 | A client in the first sessions could not list the skills a job needs (usability record U-7). Re-run as a client who lists none, in Chromium and WebKit: "I need a plumber to fix a leaking tap", then P2's own words "looking for a mechanic for a car" | A client can post with no skills; the result says truthfully how it was read | **Before:** the form refused ("List what the work involves."); and a posting with no skills would have been told "We match on the skills you listed above, and nothing else" when none were listed | **Changed in `b313756`:** "What do you need done?" first (the description, with examples that reach a trade), then a short title, then optional skills; the result says "You didn't list any skills, so we couldn't compare skills. We read the trade from your description…". **Retest:** component tests (form, optional skills, the wording both ways), API tests (201 with no skills; trade read from the description for the three example sentences; ranked without error, skill criterion not assessed), and two end-to-end tests per engine, which **fail without the change** (the new label does not exist; and, with only the result wording stashed, the new sentence is missing). **Not changed, by decision:** a posting with no skills ranks without a skill criterion (`docs/limitations.md` 41). Retest with a client: pending. |
+| M-2 | The matches list at 375 px, Chromium and WebKit (mobile report M-2) | A job's title keeps the row | The title was squeezed into a column about 62 px wide by the score and band beside it | **Changed in `79f1f61`, CSS only** (`MatchCard.module.css`): at 640 px and below the badge takes its own line. **Retest:** end-to-end at 375 px in both engines: the title is more than 60% of the card's width; **fails without the CSS** (62 px against a required 206). |
+| M-3 | The header at 375 px, Chromium and WebKit (mobile report M-3) | A link such as "My matches" stays on one line | It wrapped inside its label ("My / matches"; height 54 px) | **Changed in `79f1f61`, CSS only** (`AppShell.module.css`: `white-space: nowrap` on the links). **Retest:** the same end-to-end test requires each link under 34 px high; **fails without the CSS** ("My matches" 54 px). M-1, M-4 and M-5 are not changed. |
 
 ## Defects found earlier, with the failing state visible in history
 

diff --git a/docs/limitations.md b/docs/limitations.md
@@ -298,3 +298,35 @@
 40. **The access log records who viewed whom.** A profile view is `GET /workers/<public_id>`, so the
     web server's request log ties a client's address to a worker's page. The id is opaque and the log
     is the server's, not the application's, and no retention rule exists for it.
+
+## 9. Client postings
+
+41. **A posting with no skills is scored without a skill criterion, and can reach workers of other
+    trades.** Since 2026-11-15 a client may post without listing skills (usability finding U-7), and
+    the rule-based score then leaves the skill criterion out and divides its weight among place,
+    pay and time (`rule_based.py`, `skill_overlap` returns none; `combine_present`), so the posting
+    can outrank comparable ones for workers of unrelated trades. Measured on the synthetic data with
+    60 typed-in workers and seven postings, each posted with and without skills (`handoff/29`):
+    without skills a posting reached the top 50 of 32 to 44 of the 60 workers, the top 10 of 0 to 17
+    (the Kiswahili plumber posting, *fundi bomba wa kurekebisha bomba*, 17, all of them workers of
+    other trades; the other six 0 to 4), and was shown (score of 55 or more) to 3 to 9 workers; the
+    same postings with typed skills reached the top 50 of 1 to 18, the top 10 of 0 to 3, and were
+    shown to none. This is accepted and documented, not changed: it follows from how the score treats
+    a missing criterion (`docs/scoring-policy.md` §1), which this work does not touch.
+
+42. **Skills typed in a client's own words match only identical text, so such a posting is nearly
+    invisible to workers.** A listed skill that is not an ESCO label is kept as literal text
+    (`unmapped`), and a worker's skills match it only if the text is identical. The seven postings
+    above, given plausible skills in ordinary words, were shown to none of the 60 workers and ranked
+    at a mean of 31 to 47 where they appeared at all, and the skills changed the trade reached in none
+    of the seven. The form says so by making skills optional and by asking for the description first;
+    it does not turn the words into skills.
+
+43. **Semantic scores for existing pairs can shift by about 1e-7 when the posting pool changes.**
+    When a posting is added the whole list of texts is embedded again, and sentence-transformers sorts
+    by length to form its batches (`matching/semantic.py`, note on batching; measured in
+    `tests/test_semantic_scorer.py`), so float32 rounding differs in the last bit. A 60-worker check
+    on 280 and on 294 postings found no displayed score or band change in any configuration, none in
+    the rule-based ones, and differences of at most 1.2e-7 in the embedding-based ones. The evaluation
+    uses a fixed pool and is unaffected.
+

diff --git a/docs/usability-record.md b/docs/usability-record.md
@@ -214,7 +214,7 @@ KES 2,000 / day
 
 ## Findings
 
-Six findings came out of the sessions. "Seen by" gives what `Testing.md` supports and what the author has since stated. Where neither says who met a thing, it says **not recorded**.
+Seven findings have come out of the sessions (U-7 added after the first six). "Seen by" gives what `Testing.md` supports and what the author has since stated. Where neither says who met a thing, it says **not recorded**.
 
 | # | Finding | Seen by | Kind | Status |
 |---|---|---|---|---|
@@ -224,6 +224,7 @@ Six findings came out of the sessions. "Seen by" gives what `Testing.md` support
 | U-4 | "See more keywords that matched" did not work | P3 (Dia, laptop) | unclear affordance, not a broken control: the only such text was "+N more" on a match card, plain text that did nothing in any browser | **Fixed in `660a184`**: "+N more" is now a link to that match's "Why this job?" page, keyboard reachable, 44 px tall |
 | U-5 | The match score does not follow pay: P3's strongest match (job 1) paid much less than the daily rate; P3 would pick the two highest-paying jobs | P3 | a question about what the score means, not an interface defect | **Open, not changed**: the score is the matching and scoring path, which this phase does not touch |
 | U-6 | "looking for a mechanic for a car" is not matched to a trade ("We couldn't match this to a trade we know") | P2 | vocabulary coverage in the knowledge graph | **Open, not changed**: enrichment is not touched in this phase; P2 recorded no difficulty ("Was there anything you didn't understand? No") |
+| U-7 | Clients could not list the skills a job needs; most know only that they need a plumber or an electrician ("it was a bit of a problem for someone to create an account as a client and list the possible skills needed for a certain job", as reported by the author) | [CONFIRM: who ran the test, device, date] | the form asked for something clients could not supply; and what they could type (skills in their own words) matched nothing | **Fixed, pending retest, in `b313756`**: the form asks "What do you need done?" first, then a short title, and skills are optional; the result screen says plainly when none were listed. The ranking effect of a posting with no skills is accepted and documented (`docs/limitations.md`, items 41 and 42) |
 
 ---
 
